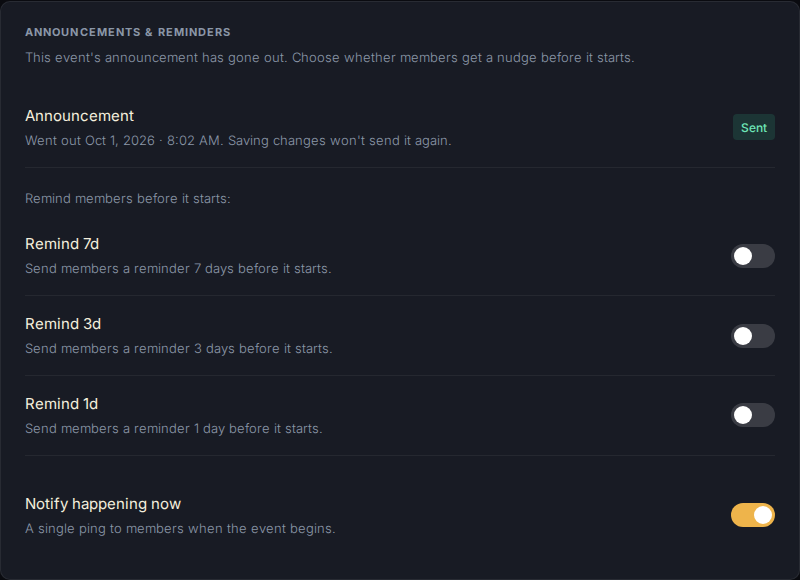
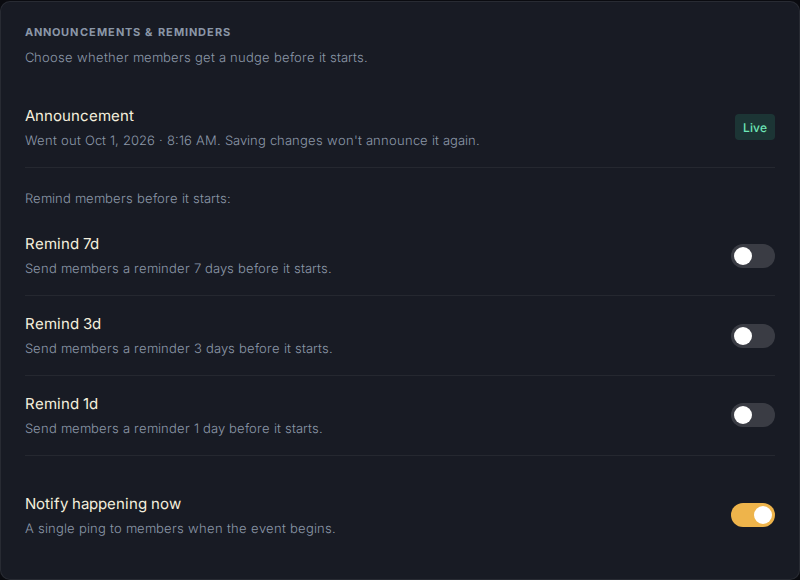
Say only what holds for every live event
Review found three overclaims in the new copy. A live event can hold a future
publish_at (one does in production), so "Went out" now shows only a time that
has passed. Seeded rows were never announced, so the row says "Live" rather
than "Sent". A saved audience change re-creates the Google copy, and a reminder
whose time has passed never sends, so the note now claims only what the save
path guarantees: no second announcement, and no reminder sent on save.

Changed region(s): [[0.0312, 0.0931, 0.7812, 0.1241], [0.2188, 0.2172, 0.5938, 0.2793], [0.9062, 0.2172, 0.9688, 0.2483]]

diff --git a/templates/hub/community_event_edit.html b/templates/hub/community_event_edit.html
@@ -42,7 +42,7 @@
     <div class="hub-card" style="padding:1.5rem; margin-bottom:1.5rem;">
       <h2 class="hub-detail-label" style="margin-top:0; margin-bottom:0.5rem;">Announcements &amp; reminders</h2>
       <p class="hub-text-muted" style="font-size:0.8125rem; margin-top:0; margin-bottom:1.25rem;">
-        {% if form.announced %}This event's announcement has gone out. Choose whether members get a nudge before it starts.{% else %}Choose when this event's announcement goes out, and whether members get a nudge before it starts.{% endif %}
+        {% if form.announced %}Choose whether members get a nudge before it starts.{% else %}Choose when this event's announcement goes out, and whether members get a nudge before it starts.{% endif %}
       </p>
 
       {% if form.announced %}
@@ -50,9 +50,9 @@
       <div class="pl-toggle-row" id="event-announced">
         <div class="pl-toggle-info">
           <div class="pl-toggle-label">Announcement</div>
-          <div class="pl-toggle-desc">{% if event.publish_at %}Went out {{ event.publish_at_display }}.{% else %}Already sent.{% endif %} Saving changes won't send it again.</div>
+          <div class="pl-toggle-desc">{% if form.went_out_on_schedule %}Went out {{ event.publish_at_display }}.{% else %}This event is live.{% endif %} Saving changes won't announce it again.</div>
         </div>
-        <span class="pl-status-badge pl-status-badge--ok">Sent</span>
+        <span class="pl-status-badge pl-status-badge--ok">Live</span>
       </div>
       {% else %}
       {# When should this go out? — a presentational Alpine toggle; publish_at is the real field. #}
@@ -106,7 +106,7 @@
     {% endif %}
 
     <p class="hub-text-muted" style="font-size:0.8125rem; margin-bottom:1rem;">
-      {% if form.announced %}This event is already announced, so saving only updates it where it already appears. A reminder you turn on goes out at its time, never on save.{% else %}Saving posts the announcement to Discord and adds it to the Calendar — right away, or on your scheduled date if you set one.{% endif %}{% if google_sync_enabled %} Saving also updates this event on the linked Google Calendar.{% endif %}
+      {% if form.announced %}This event is already live, so saving won't announce it again. Reminders are never sent on save.{% else %}Saving posts the announcement to Discord and adds it to the Calendar — right away, or on your scheduled date if you set one.{% endif %}{% if google_sync_enabled %} Saving also updates this event on the linked Google Calendar.{% endif %}
     </p>
 
     <div class="pl-form-actions">

diff --git a/tests/hub/community_event_scheduling_spec.py b/tests/hub/community_event_scheduling_spec.py
@@ -235,6 +235,22 @@ def describe_editing_an_announced_event():
         def it_drops_the_announce_time_from_a_published_event():
             form = CommunityEventForm(instance=_went_out_on_schedule())
             assert form.announced is True
+            assert form.went_out_on_schedule is True
+            assert "publish_at" not in form.fields
+
+        def it_names_no_time_for_an_event_announced_on_save():
+            form = CommunityEventForm(instance=CommunityEventFactory())  # PUBLISHED, no publish_at
+            assert form.announced is True
+            assert form.went_out_on_schedule is False
+
+        def it_never_calls_a_future_time_on_a_live_event_the_time_it_went_out():
+            # The old form let a lead set a schedule on an event that was already live.
+            live = CommunityEventFactory(
+                moderation_state=State.PUBLISHED, publish_at=timezone.now() + timedelta(days=2)
+            )
+            form = CommunityEventForm(instance=live)
+            assert form.announced is True
+            assert form.went_out_on_schedule is False
             assert "publish_at" not in form.fields
 
         def it_keeps_the_announce_time_on_a_scheduled_event():
@@ -243,12 +259,14 @@ def describe_editing_an_announced_event():
             )
             form = CommunityEventForm(instance=event)
             assert form.announced is False
+            assert form.went_out_on_schedule is False
             assert "publish_at" in form.fields
 
         def it_keeps_the_announce_time_on_a_new_event():
             # A new row carries the model default, PUBLISHED, before anything announces it.
             form = CommunityEventForm(instance=CommunityEvent())
             assert form.announced is False
+            assert form.went_out_on_schedule is False
             assert "publish_at" in form.fields
 
     def it_saves_a_lead_edit_and_keeps_the_time_it_went_out(client: Client):
@@ -323,6 +341,17 @@ def describe_editing_an_announced_event():
             content = client.get(reverse("hub_guild_event_edit", args=[guild.pk, event.pk])).content
             assert b'id="event-announced"' in content
             assert b'name="publish_at"' not in content
+
+        def it_shows_no_went_out_time_for_a_live_event_holding_a_future_one(client: Client):
+            user = _user_with_role("lead_badge_future")
+            guild = GuildFactory(guild_lead=user.member)
+            event = CommunityEventFactory(
+                guild=guild, moderation_state=State.PUBLISHED, publish_at=timezone.now() + timedelta(days=3)
+            )
+            client.login(username="lead_badge_future", password="pass")
+            content = client.get(reverse("hub_guild_event_edit", args=[guild.pk, event.pk])).content
+            assert b'id="event-announced"' in content
+            assert event.publish_at_display.encode() not in content
 
         def it_still_offers_the_schedule_on_a_scheduled_event(client: Client):
             user = _user_with_role("lead_badge_parked")

diff --git a/hub/forms.py b/hub/forms.py
@@ -3121,6 +3121,10 @@ class CommunityEventForm(forms.ModelForm):
         )
         if self.announced:
             del self.fields["publish_at"]
+        # Only a time that has passed is when it went out. A live event can still hold a future
+        # one (the old form let a lead set it after publishing), and seeded rows hold none.
+        publish_at = self.instance.publish_at
+        self.went_out_on_schedule: bool = self.announced and publish_at is not None and publish_at <= timezone.now()
         self.fields["video_url"].label = "Video link"
         self._setup_audience_field(can_choose_audience=can_choose_audience)
         self._setup_kind_field(can_choose_audience=can_choose_audience, fixed_guild=guild)
